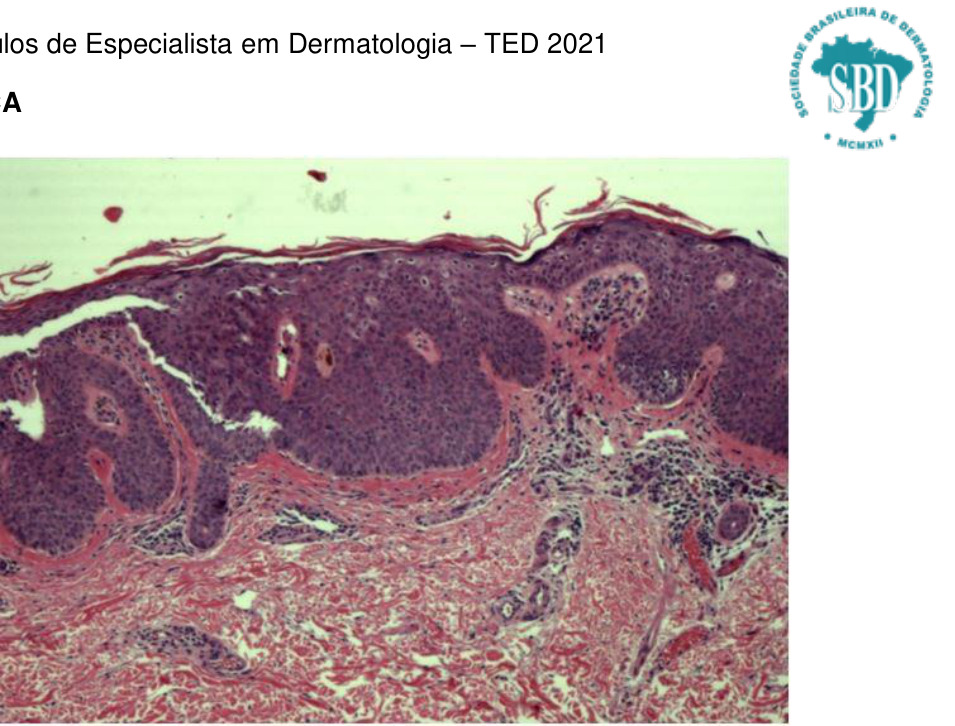
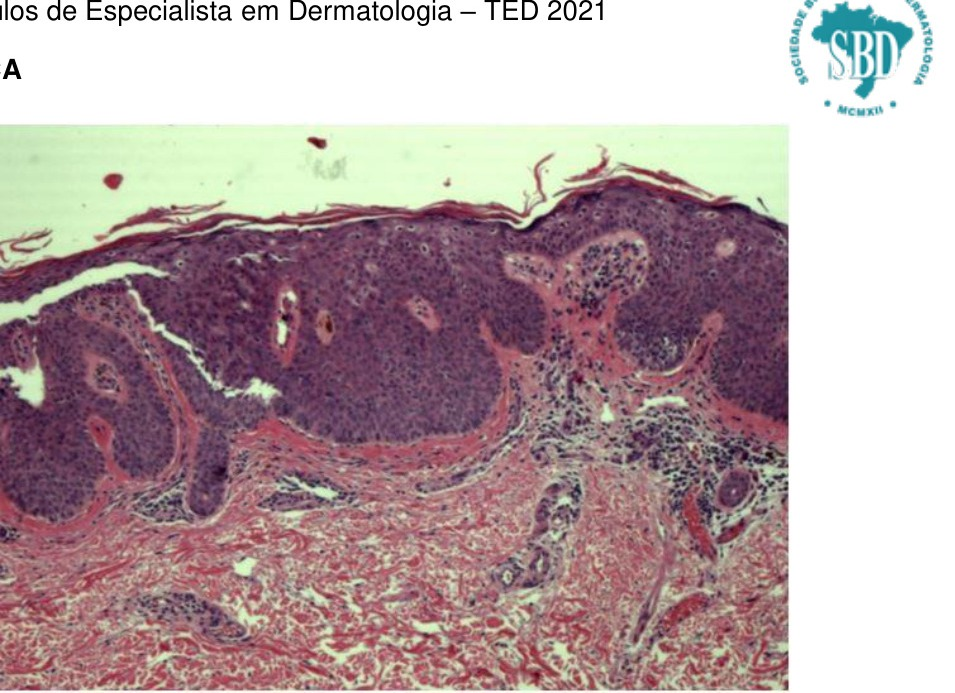
Fix: remove faixa de cabeçalho rasterizada em 8 imagens TED TP 2021
Crop de 33-37px no topo das imagens afetadas:
q09_f3, q12_f4, q25_f3, q28_f3, q28_f4, q29_f3, q33_f3, q34_f3

diff --git a/scripts/detect_header_crop.py b/scripts/detect_header_crop.py
@@ -1,0 +1,101 @@
+"""
+Detects images with a white/light exam header band at the top.
+Strategy: compare average brightness of top 15% vs the rest.
+If top band is significantly brighter AND has texture (dark pixels = text),
+flag for cropping.
+
+DRY RUN — does not modify files.
+"""
+
+from PIL import Image
+import os
+import numpy as np
+
+IMG_DIR = r"C:\Dev\DermpathNav\public\images\ted\tp\2021"
+
+# Parameters
+SCAN_RATIO    = 0.18   # scan top 18% for header
+BRIGHT_THRESH = 215    # top band mean must be brighter than this
+DIFF_THRESH   = 18     # top must be at least this much brighter than rest
+STD_THRESH    = 12     # top band must have some variation (text = dark pixels on light bg)
+MIN_RATIO     = 0.03   # crop must be >= 3% of image height to bother
+
+def find_crop_line(arr_gray: np.ndarray) -> int:
+    """
+    Scan down from top row by row.
+    Return the first row index that looks like image content (dark/colorful enough).
+    """
+    h = arr_gray.shape[0]
+    for y in range(h):
+        row_mean = arr_gray[y].mean()
+        row_std  = arr_gray[y].std()
+        # Image content: mean dark enough OR high variance (colorful photo)
+        if row_mean < 200 or row_std > 30:
+            return y
+    return 0
+
+def analyze(img: Image.Image) -> dict:
+    gray = np.array(img.convert("L"), dtype=float)
+    rgb  = np.array(img.convert("RGB"), dtype=float)
+    h, w = gray.shape
+
+    scan_h = max(1, int(h * SCAN_RATIO))
+    top  = gray[:scan_h]
+    rest = gray[scan_h:]
+
+    top_mean  = top.mean()
+    rest_mean = rest.mean() if rest.size else top_mean
+    top_std   = top.std()
+    diff      = top_mean - rest_mean
+
+    # Find precise crop line by scanning rows
+    crop_px = find_crop_line(gray)
+    crop_ratio = crop_px / h
+
+    flagged = (
+        top_mean > BRIGHT_THRESH and
+        diff > DIFF_THRESH and
+        top_std > STD_THRESH and
+        crop_ratio >= MIN_RATIO
+    )
+
+    return {
+        "top_mean":  top_mean,
+        "rest_mean": rest_mean,
+        "diff":      diff,
+        "top_std":   top_std,
+        "crop_px":   crop_px,
+        "crop_ratio": crop_ratio,
+        "h": h, "w": w,
+        "flagged": flagged,
+    }
+
+files = sorted(f for f in os.listdir(IMG_DIR) if f.startswith("ted2021_tp_") and f.endswith(".jpg"))
+
+to_crop = []
+suspicious = []
+
+for fname in files:
+    path = os.path.join(IMG_DIR, fname)
+    with Image.open(path) as img:
+        r = analyze(img)
+
+    if r["flagged"]:
+        to_crop.append((fname, r))
+    elif r["diff"] > 10 and r["top_mean"] > 200:
+        suspicious.append((fname, r))
+
+print(f"=== FLAGGED FOR CROP ({len(to_crop)}) ===")
+if to_crop:
+    print(f"{'File':<35} {'CropPx':>7} {'H':>5} {'Ratio':>6} {'TopMean':>8} {'Diff':>6} {'Std':>6}")
+    print("-" * 80)
+    for fname, r in to_crop:
+        print(f"{fname:<35} {r['crop_px']:>7} {r['h']:>5} {r['crop_ratio']:>5.1%}  {r['top_mean']:>7.1f} {r['diff']:>6.1f} {r['top_std']:>6.1f}")
+
+print()
+print(f"=== BORDERLINE (not flagged, diff > 10 and top bright) ({len(suspicious)}) ===")
+if suspicious:
+    print(f"{'File':<35} {'CropPx':>7} {'H':>5} {'Ratio':>6} {'TopMean':>8} {'Diff':>6} {'Std':>6}")
+    print("-" * 80)
+    for fname, r in suspicious:
+        print(f"{fname:<35} {r['crop_px']:>7} {r['h']:>5} {r['crop_ratio']:>5.1%}  {r['top_mean']:>7.1f} {r['diff']:>6.1f} {r['top_std']:>6.1f}")

diff --git a/scripts/apply_header_crop.py b/scripts/apply_header_crop.py
@@ -1,0 +1,30 @@
+"""
+Applies header crop to the 8 confirmed images (33-37px from top).
+Overwrites files in place.
+"""
+
+from PIL import Image
+import os
+
+IMG_DIR = r"C:\Dev\DermpathNav\public\images\ted\tp\2021"
+
+CROPS = {
+    "ted2021_tp_q09_f3.jpg": 33,
+    "ted2021_tp_q12_f4.jpg": 33,
+    "ted2021_tp_q25_f3.jpg": 33,
+    "ted2021_tp_q28_f3.jpg": 33,
+    "ted2021_tp_q28_f4.jpg": 37,
+    "ted2021_tp_q29_f3.jpg": 33,
+    "ted2021_tp_q33_f3.jpg": 33,
+    "ted2021_tp_q34_f3.jpg": 33,
+}
+
+for fname, crop_px in CROPS.items():
+    path = os.path.join(IMG_DIR, fname)
+    with Image.open(path) as img:
+        w, h = img.size
+        cropped = img.crop((0, crop_px, w, h))
+        cropped.save(path, "JPEG", quality=92)
+    print(f"  {fname}: {h}px -> {h - crop_px}px (removed {crop_px}px header)")
+
+print(f"\nDone. {len(CROPS)} images cropped.")
